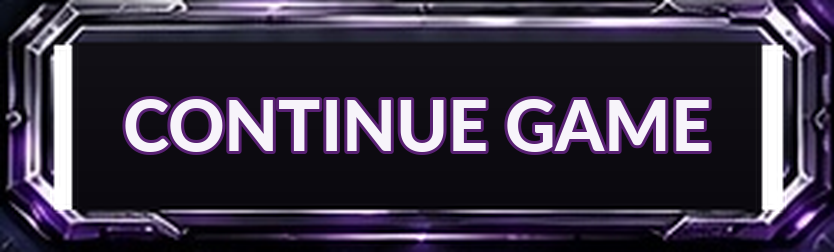
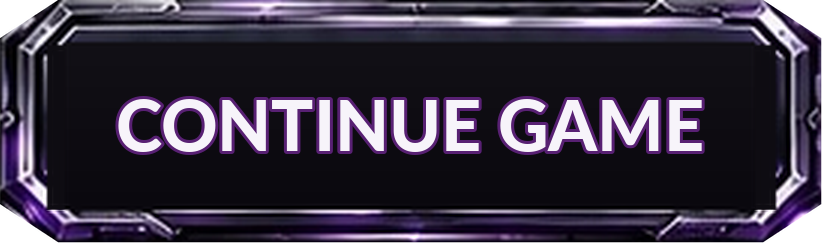
Landing: restore original button art with clean frame cut-outs; backdrop sized to the display
Claude-Session: https://claude.ai/code/session_01LdKXq8S9jHR7uf3aBdYwD1

diff --git a/rebuild/src/ui/screens/landing.js b/rebuild/src/ui/screens/landing.js
@@ -24,14 +24,14 @@ export const landingScreen = {
       <main class="landing">
         <div class="landing__brand"><img src="assets/img/landing/logo.png" alt="Commander Companion — Track, Play, Learn"></div>
         <div class="landing__primary">
-          <button type="button" class="lbtn" data-act="start"><span>Start Game</span></button>
-          <button type="button" class="lbtn" data-act="continue" disabled><span>Continue Game</span></button>
+          <button type="button" data-act="start"><img src="assets/img/landing/start.png" alt="Start Game"></button>
+          <button type="button" data-act="continue" disabled><img src="assets/img/landing/continue.png" alt="Continue Game"></button>
         </div>
         <nav class="landing__tools" aria-label="Tools">
-          <button type="button" class="lbtn" data-act="profile"><span>Profile</span></button>
-          <button type="button" class="lbtn" data-act="decks"><span>Deck Builder</span></button>
-          <button type="button" class="lbtn" data-act="settings"><span>Settings</span></button>
-          <button type="button" class="lbtn" data-act="help"><span>Help</span></button>
+          <button type="button" data-act="profile"><img src="assets/img/landing/profile.png" alt="Profile"></button>
+          <button type="button" data-act="decks"><img src="assets/img/landing/deck-builder.png" alt="Deck Builder"></button>
+          <button type="button" data-act="settings"><img src="assets/img/landing/settings.png" alt="Settings"></button>
+          <button type="button" data-act="help"><img src="assets/img/landing/help.png" alt="Help"></button>
         </nav>
         <div class="landing__foot">Commander Companion • ${VERSION}</div>
       </main>`);

diff --git a/rebuild/src/main.js b/rebuild/src/main.js
@@ -49,3 +49,14 @@ function registerServiceWorker() {
 }
 
 start();
+
+// Installed on an iPad home screen, the page can be reported shorter than the display. Size the
+// backdrop from the display itself so the art always reaches the bottom edge.
+function sizeBackdrop() {
+  const landscape = window.innerWidth >= window.innerHeight;
+  const full = landscape ? Math.min(screen.width, screen.height) : Math.max(screen.width, screen.height);
+  document.documentElement.style.setProperty('--cc-screen-h', `${Math.max(window.innerHeight, navigator.standalone ? full : 0)}px`);
+}
+sizeBackdrop();
+window.addEventListener('resize', sizeBackdrop);
+window.addEventListener('orientationchange', () => setTimeout(sizeBackdrop, 300));

diff --git a/rebuild/src/version.js b/rebuild/src/version.js
@@ -1,4 +1,4 @@
 // The single build stamp. Shown on the landing screen and used by the service worker
 // to tell one release from the next. Change it once per release, then run `node tools/stamp.mjs` so build.json (which devices check for updates) matches.
-export const VERSION = '1.0.0-rebuild.18';
+export const VERSION = '1.0.0-rebuild.19';
 export const BUILD_DATE = '2026-10-04';

diff --git a/rebuild/styles/app.css b/rebuild/styles/app.css
@@ -1493,3 +1493,5 @@ body::before {
 .landing__tools .lbtn span { inset: 0.5rem; --c: 0.62rem; }
 .landing { padding-bottom: calc(2.2rem + var(--safe-b)); }
 .landing__foot { text-shadow: 0 1px 2px #000; }
+/* backdrop reaches the physical bottom edge, even where the page is reported short */
+body::before { height: max(100lvh, var(--cc-screen-h, 0px)); }

diff --git a/rebuild/sw.js b/rebuild/sw.js
@@ -4,7 +4,7 @@
 // release is picked up on the next load — no per-file cache tokens to maintain. The cache
 // is only used when the device is offline.
 
-const CACHE = 'commander-companion-v18';
+const CACHE = 'commander-companion-v19';
 
 self.addEventListener('install', () => self.skipWaiting());
 
